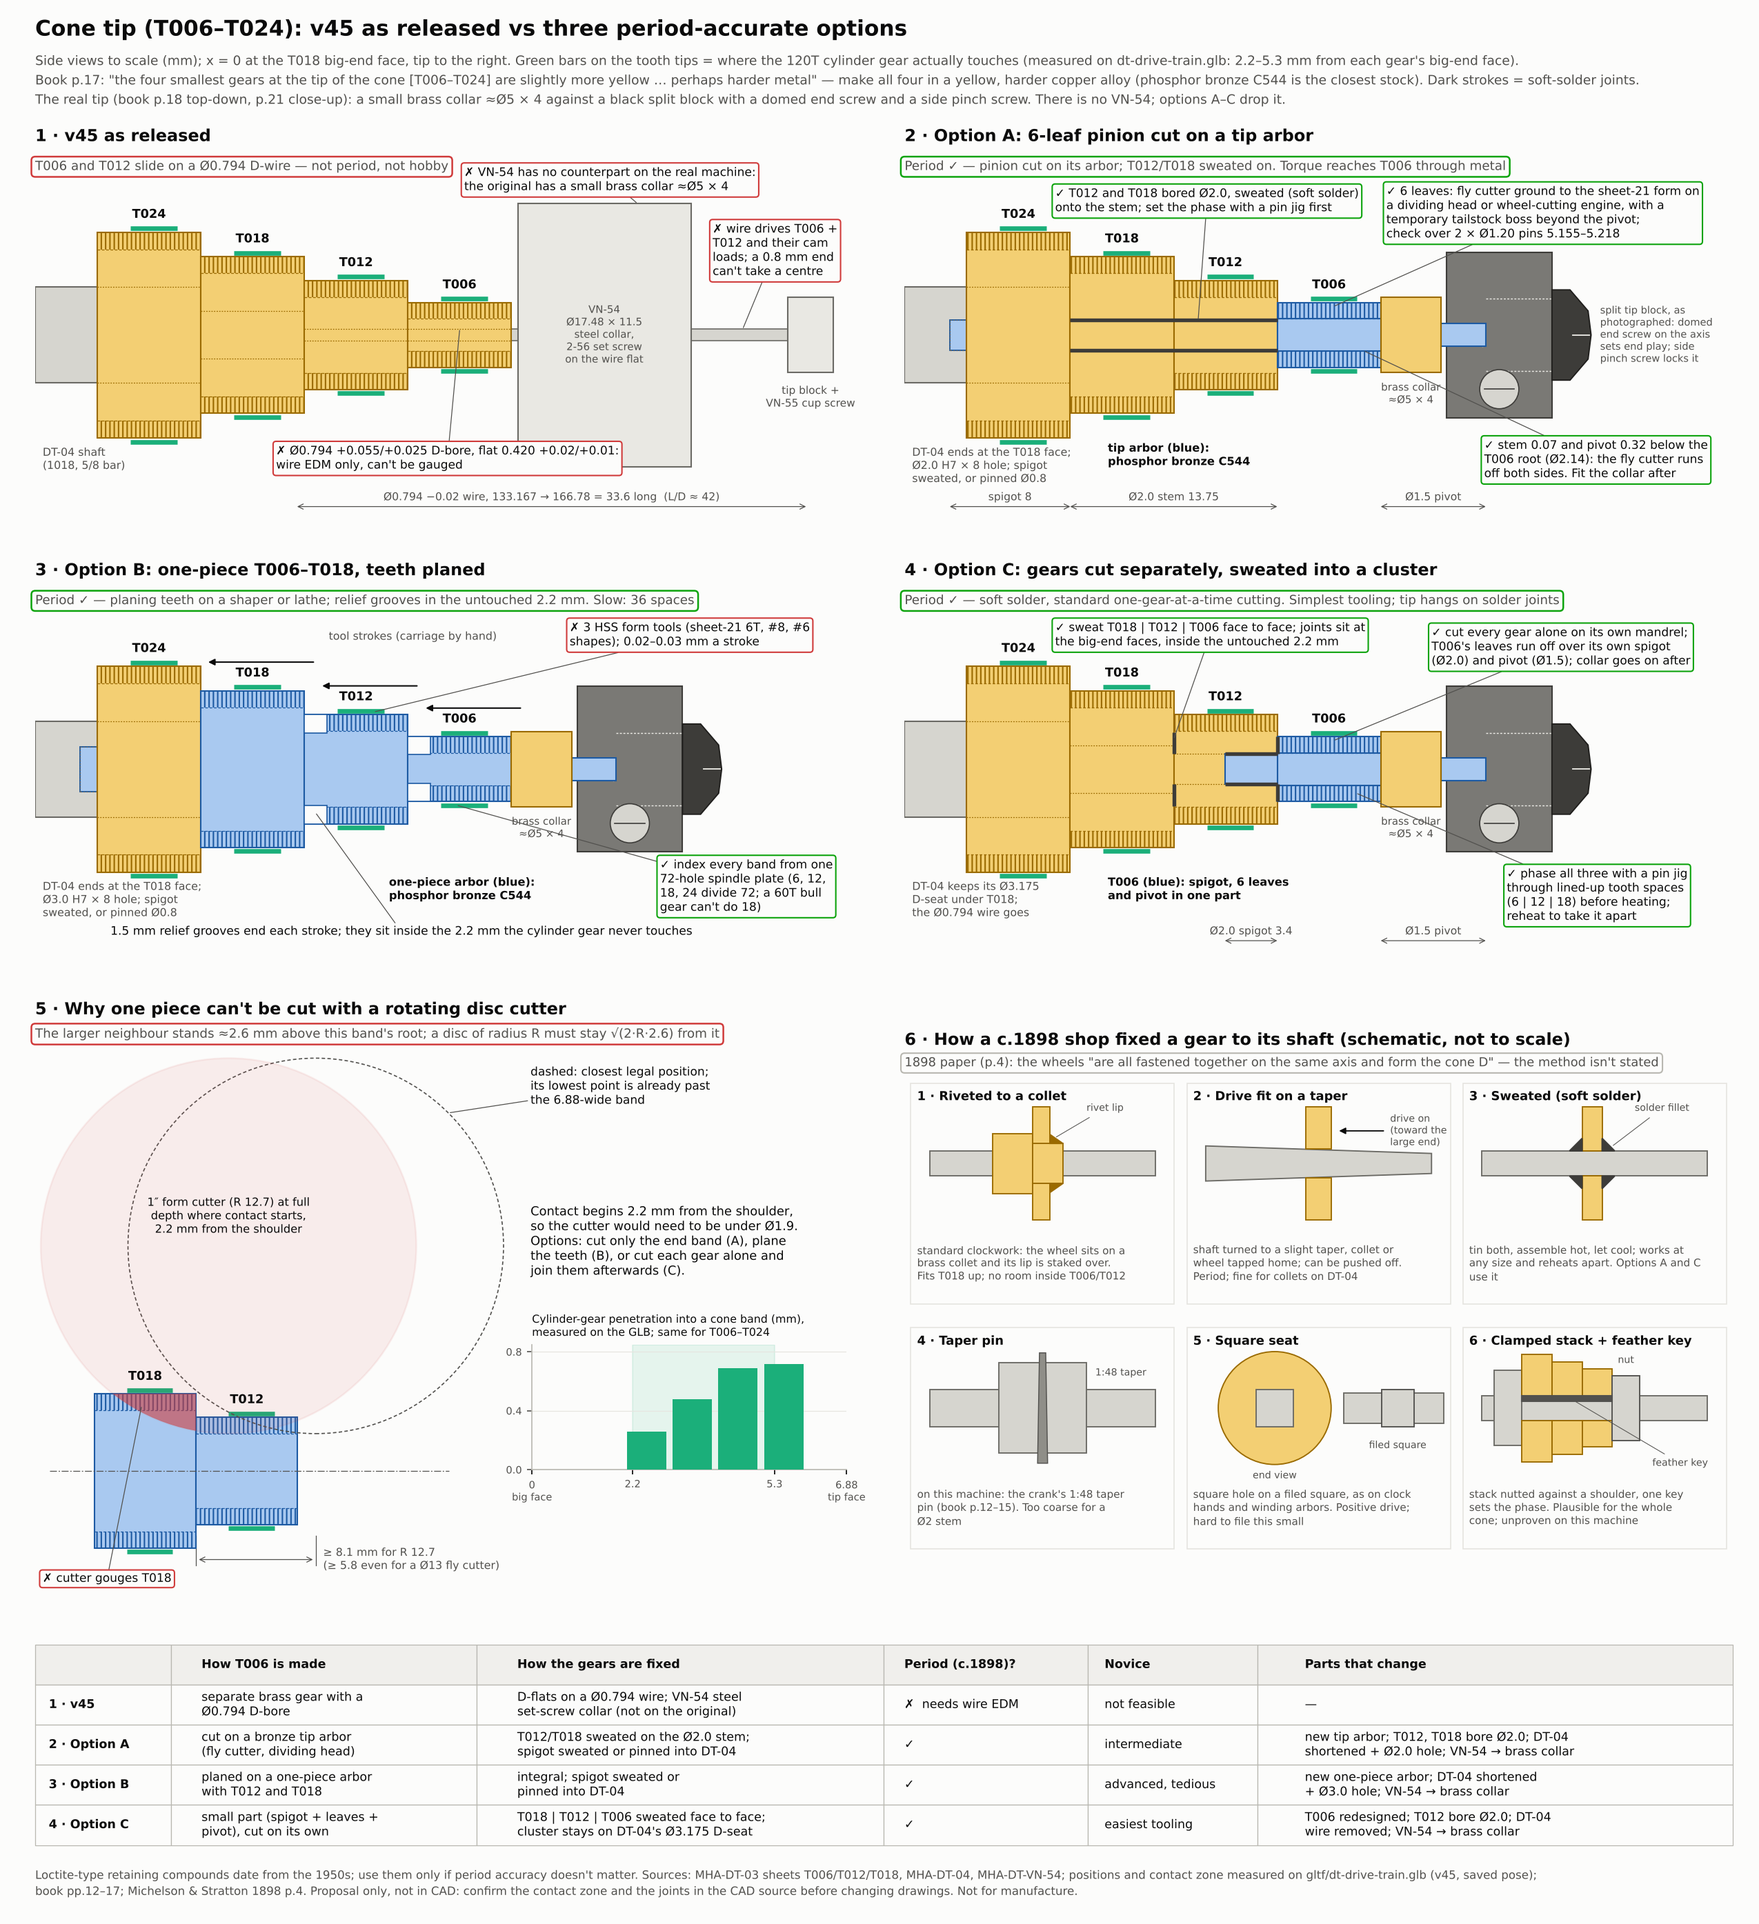
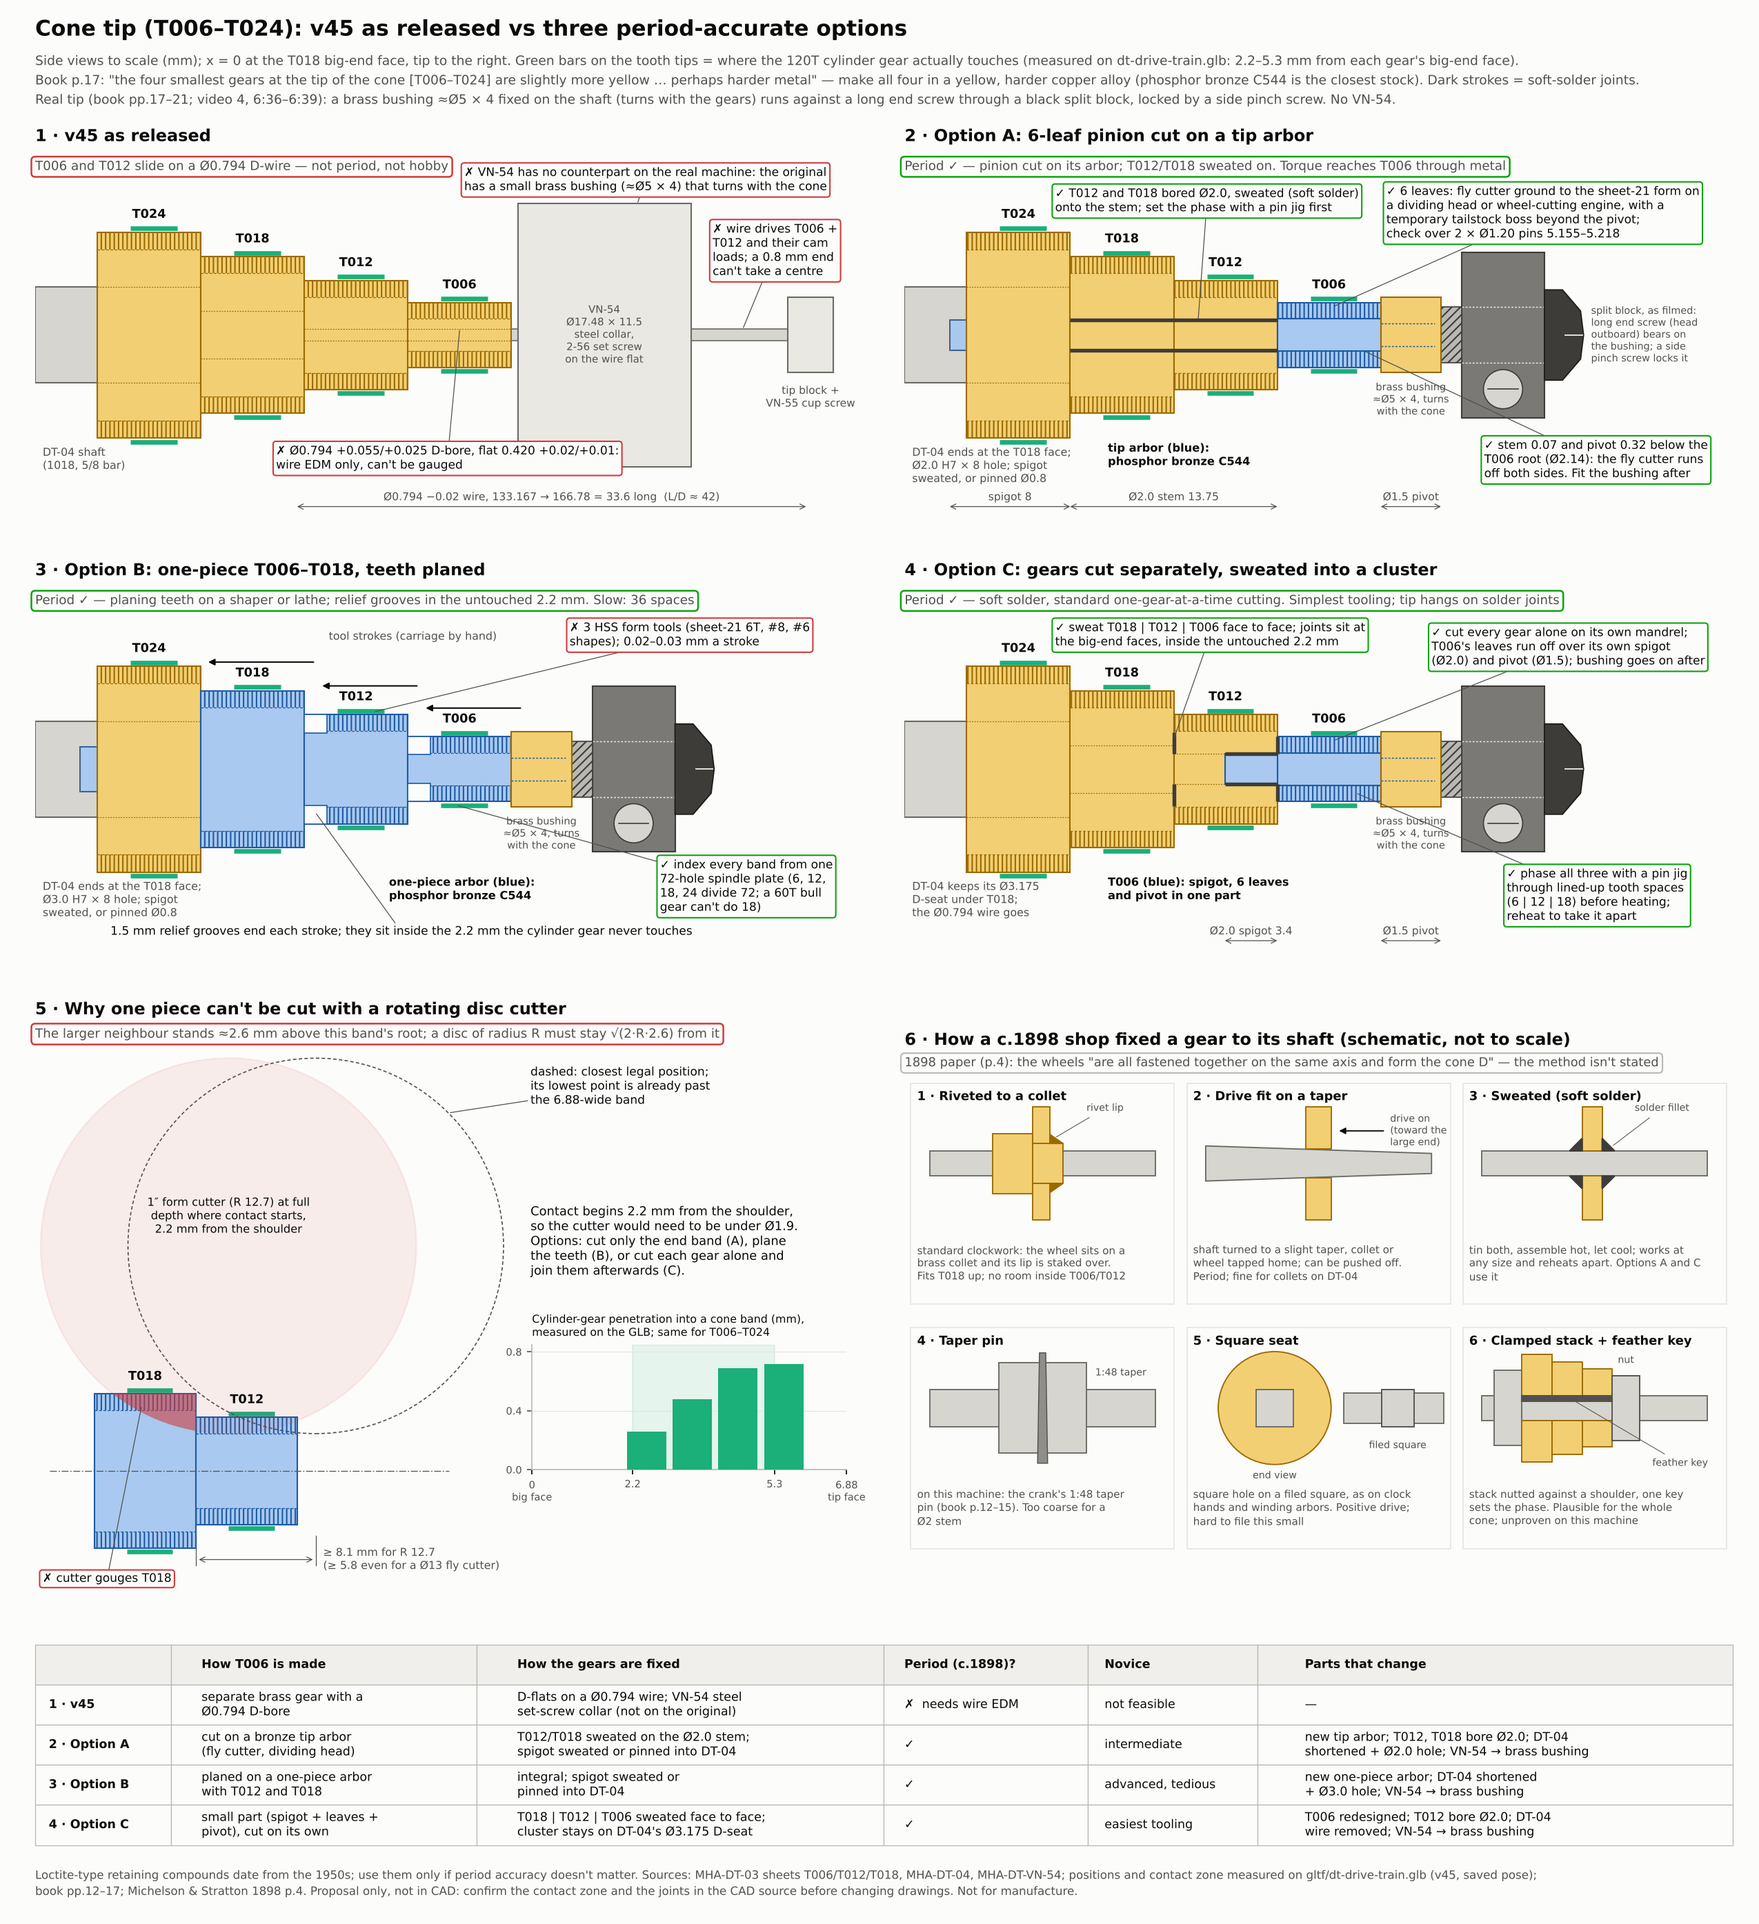
research: cone tip has a rotating brass bushing and a long end screw
engineerguy video 4 (6:36 vs 6:39, crank turning, camera locked off)
shows the tip from the side. Frame differencing puts the brass bushing
with the rotating 6-leaf pinion (mean change 18.7 vs 13-20), while the
exposed end-screw thread, black split block and side pinch screw stay
at the noise floor (~2-3). So the bushing is fixed on the shaft and is
the thrust face for a long end screw threaded through the split block
(domed head outboard), locked by the side pinch screw.

- Departures, per-drawing notes and recommendation 1 now use the
  bushing; VN-55 should become a long headed end screw.
- Section 7: the collar-vs-bush open question is resolved; options
  fit the bushing on the pivot after cutting.
- Sketch redrawn: rotating bushing, exposed end-screw thread, block
  with the screw head outboard.

Claude-Session: https://claude.ai/code/session_01BtxwQxpMCrb1hsP44NXY8R

diff --git a/research/3-detailed-design/drive-train-v45-review.md b/research/3-detailed-design/drive-train-v45-review.md
@@ -4,8 +4,9 @@
 > would receive it. Findings may already be fixed on `main`. Track the work on the
 > [Harmonic Analyzer project](https://github.com/users/pedropaulovc/projects/1).
 >
-> **Revised 2026-10-27.** The cone-tip findings are corrected (VN-54, tip-gear material), and §7
-> adds cone-tip options with a to-scale sketch.
+> **Revised 2026-10-27.** The cone-tip findings are corrected (VN-54, tip-gear material, and the
+> rotating brass bushing and end screw from video 4), and §7 adds cone-tip options with a
+> to-scale sketch.
 
 ## Scope and method
 
@@ -15,7 +16,9 @@
 - **Original-machine evidence.** Hammack, Kranz and Carpenter (2014), chapters Crank, Cone
   Gear Set, Cylinder Gear Set, Pinion Gear and Translational Gearing (`references` submodule).
   Only facts are cited here. No image or text from the book is reproduced, because it is
-  licensed for non-commercial use only.
+  licensed for non-commercial use only. The engineerguy video stills in
+  `references/engineerguy-youtube/stills/full/` are cited by path and not reproduced either.
+  The main one is video 4, "The details of setting up the Harmonic Analyzer", at 6:36 and 6:39.
 - **3D inspection.** meshprobe 1.4.0 on Blender 5.2.0 (software GL) against
   `dt-drive-train.glb`: component census and world bounds, top/side orthographic views,
   close-ups of the cone tip, the crank mesh and the alignment-pinion rig, and a side-by-side
@@ -36,8 +39,8 @@
    reduction, the 13° oblique cone, the tip pivot and lock, the 120T cylinder gears with 3 mm
    notches, and the alignment-pinion rig all match the book. The departures are in small-part
    detail, and the cone tip is the clearest one: `MHA-DT-VN-54`, a Ø17.48 steel set-screw
-   collar, has no counterpart on the original, which has a small brass collar against a split
-   tip block. There is also one known accuracy defect: a 1.5° cam phase error that `READOUT.md`
+   collar, has no counterpart on the original. The original has a small brass bushing that
+   turns with the cone and runs against a long end screw in a split tip block. There is also one known accuracy defect: a 1.5° cam phase error that `READOUT.md`
    documents itself.
 2. **Drawings: rich in shop knowledge, weak on drafting discipline.** The sheets have gear data
    blocks, vendor SKUs, a complete BOM and a feeler-gauge assembly procedure. But they cite
@@ -85,24 +88,35 @@
   - **Material.** The book says "the four smallest gears at the tip of the cone are slightly
     more yellow in appearance and seem to be made of a different, perhaps harder metal"
     (p.17). That covers T006–T024. The p.21 close-up shows verdigris on the 6-leaf pinion,
-    which points to a copper alloy, not steel **[I from photo]**.
+    which points to a copper alloy, not steel **[I from photo]**. In the video 4 side view
+    (6:36) the four smallest gears are visibly lighter than the bronze-brown rest of the cone
+    **[I from video]**.
   - **Construction.** The photos don't show whether the tip gears are integral with the shaft
     or separate gears.
   - **v45.** All four are drawn in plain "Brass".
 - **No counterpart for `MHA-DT-VN-54`.**
   - **Model:** a Ø17.48 × 11.5 steel collar from 3/4″ bar with a radial 2-56 set screw on
     the wire flat, set "0.45 FEELER OFF T006 THRUST FACE" **[V]**.
-  - **Original:** the book's top-down photo (p.18; bundled overlay
-    `comparisons/*/harmonic_analyzer--ch12-p002-img09*`) and the p.21 close-up show only a
-    small brass collar. It sits directly against T006 and the black tip block, and is about
-    Ø5 × 4 mm (scaled from the gear pitch, ±25 %) **[I from photos]**.
+  - **Original:** the sources show only a small brass bushing, about Ø5 × 4 mm (scaled from
+    the gear pitch, ±25 %), right against T006 **[I from photos]**. The sources are the book's
+    top-down photo (p.18; bundled overlay `comparisons/*/harmonic_analyzer--ch12-p002-img09*`),
+    the p.21 close-up and the video 4 side view.
+  - **The bushing turns with the cone.** Between the video 4 frames at 6:36 and 6:39 the crank
+    turns. The bushing changes as much as the rotating 6-leaf pinion beside it (mean pixel
+    change 18.7 against 13–20). The end-screw thread, black block and side screw stay at the
+    compression floor (about 2–3) **[I from video]**. The bushing is therefore fixed to the
+    cone shaft. It is a rotating thrust collar, not a bush in the block.
   - **Verdict:** VN-54 is roughly 3× too large in diameter and length, the wrong metal, and
     has no set screw on the original.
-- **Tip block hardware.** On the original, a domed, slotted, blackened end screw sits on the
-  cone axis in the split black block, and a bright slotted pinch screw on the side locks the
-  slit (book pp.17–18) **[I from photos]**.
-  - v45 uses a headless #10-32 cup-point set screw (`VN-55`) for the end screw and a #4-40
-    fillister (`VN-56`) for the pinch **[V]**.
+- **Tip block hardware.**
+  - **Original** (book pp.17–18, video 4 at 6:36) **[I from photos/video]**:
+    - A long end screw is threaded through the black split block. Its domed, slotted,
+      blackened head is outboard, and its threaded end sticks out toward the cone.
+    - The rotating brass bushing runs against that inner end.
+    - A bright slotted pinch screw on the side crosses the slit and locks the end screw's
+      thread.
+  - **v45:** a short headless #10-32 cup-point set screw (`VN-55`) for the end screw and a
+    #4-40 fillister (`VN-56`) for the pinch **[V]**.
   - In the aligned overlay, the model's pinch-screw head is on the side facing the cylinder
     bank. On the original it is on the outboard side **[I]**.
 - **Helical crank drive gear.** `dt-crank-drive-gear` is "HELIX AT PITCH DIA: 13.0 ±1 DEG RIGHT
@@ -115,7 +129,7 @@
   says the original chain is lost, so its form is a guess **[V]**.
 - **Appearance (GLB only).** The crank arm renders black, where the original is nickel-bright.
   The post renders turquoise, where the original is dark green. These are cosmetic. The tip
-  collar is not cosmetic; see the VN-54 item above.
+  collar (VN-54) is not cosmetic; see the VN-54 item above.
 
 ## 2. Drawing quality
 
@@ -287,14 +301,19 @@ Severity: **BLOCKER** (can't be made or will not work as drawn), **MAJOR**, **MI
 - `dt-cone-tip-block` (DT-21)
   - **MAJOR [V]** The cone-axis height "38.10" is untoleranced (±0.51), while the post holds
     "38.10 ±0.25 AXIS MATCHES MHA-DT-21". At T006 that is about half a tooth **[I]**.
+  - **MINOR [I from photos/video]** The original's end screw is a long, headed screw. It goes
+    through the block, with its head outboard and its thread exposed toward the cone. It is not
+    a short headless cup set screw (VN-55), and the side pinch screw is on the opposite side
+    from the model's.
 - `dt-cone-swing-platform` (DT-20)
   - **MINOR [V]** "REAM Ø6.35 +0.02/0.00 … RUNNING FIT" against a Ø0.250 -0.001 shoulder allows
     zero clearance.
   - **MINOR [V]** "SWINGS FREE, NO AXIAL SHAKE" has no end-play number.
   - Good: a clear stock call.
 - `dt-vn-cone-tip-collar` (VN-54)
-  - **MAJOR [I from photos]** It has no counterpart on the original (§1 Departures). The real
-    tip has a small brass collar, about Ø5 × 4, against the tip block.
+  - **MAJOR [I from photos/video]** It has no counterpart on the original (§1 Departures). The
+    real tip has a small brass bushing, about Ø5 × 4, fixed on the shaft. It turns with the
+    cone and runs against the end screw.
   - **MAJOR [V]** A made part ("REAM THRU", "3/4 STEEL BAR STOCK OK") carries a VN number.
   - **MAJOR [I]** A 2-56 set screw clamping a 0.8 mm half-round wire will bend or mark it.
 - Vendor sheets (VN-51, -52, -55, -56, -60, -61)
@@ -369,7 +388,8 @@ Severity: **BLOCKER** (can't be made or will not work as drawn), **MAJOR**, **MI
 
 1. **Rework the cone tip (§7).**
    - Drop the Ø0.794 mm journal, the T006/T012 D-bores and VN-54.
-   - Replace VN-54 with the original's small brass collar.
+   - Replace VN-54 with the original's small brass bushing. Fix it on the shaft so it turns
+     with the cone and bears on a long end screw.
    - Pick one of the three period-accurate options: an integral 6-leaf pinion on a tip arbor,
      a one-piece planed arbor, or gears cut separately and sweated into a cluster.
    - Make T006–T024 in a yellow, harder copper alloy (phosphor bronze C544).
@@ -406,15 +426,22 @@ of it is in CAD.
 
 ### What the original tip looks like
 
-- **Brass collar.** A small brass collar, about Ø5 × 4 mm, sits against the T006 face and the
-  tip block (book p.18 top-down, p.21 close-up) **[I from photos]**.
-- **Tip block.** It is black and split. A domed, slotted, blackened end screw sits on the axis,
-  and a bright slotted pinch screw on the side locks the slit (pp.17–18) **[I from photos]**.
+- **Brass bushing.** A small brass bushing, about Ø5 × 4 mm, sits right against the T006 face
+  (book p.18 top-down, p.21 close-up, video 4 side view).
+  - It is fixed on the shaft and turns with the cone. Between the video 4 frames at 6:36 and
+    6:39 it changes like the rotating pinion, while the screw and block don't **[I from
+    video]**.
+  - Its outer face is a thrust face.
+- **End screw and block.** A long end screw is threaded through the black split block.
+  - Its domed, slotted, blackened head is outboard; its threaded end sticks out toward the cone
+    and faces the bushing.
+  - A bright slotted pinch screw on the side crosses the slit and locks the thread.
+  - End play is set by turning the end screw against the bushing, then tightening the pinch
+    screw (book pp.17–18, video 4) **[I from photos/video]**.
 - **What we don't know.**
   - The 1898 paper says only that the wheels "are all fastened together on the same axis and
     form the cone D" (Michelson & Stratton, p.4). How they are fixed is not stated.
-  - Whether the brass collar is fixed to the shaft or is the end of a bush in the block can't
-    be told from the photos.
+  - Whether the shaft's pivot point enters a centre in the end screw is hidden by the bushing.
 
 ### Constraints any option must meet
 
@@ -433,8 +460,12 @@ of it is in CAD.
 
 ### Options
 
-All three are period-accurate (c.1898). All three delete VN-54 and the Ø0.794 wire, add the
-original's small brass collar, and keep the original split block, end screw and pinch screw.
+All three are period-accurate (c.1898). All three:
+- delete VN-54 and the Ø0.794 wire;
+- add the original's brass bushing, soft-soldered or driven onto the pivot after the teeth are
+  cut, with its outer face square and smooth;
+- use the original's tip hardware: a split block with a long end screw that bears on the
+  bushing, and a side pinch screw.
 
 - **A · 6-leaf pinion cut on a tip arbor.**
   - **Arbor.** Phosphor bronze, carrying the integral T006, a Ø2.0 stem and a Ø1.5 pivot. It
@@ -444,7 +475,7 @@ original's small brass collar, and keep the original split block, end screw and 
     temporary tailstock boss beyond the pivot.
   - **T012 and T018.** Bore both Ø2.0 and soft-solder them onto the stem, setting the phase
     with a pin jig first.
-  - **Collar.** Fit the brass collar after cutting.
+  - **Bushing.** Fit the brass bushing on the pivot after cutting.
   - **Drive.** T006's torque reaches it through metal.
 - **B · One-piece T006–T018 with planed teeth.**
   - **Method.** Plane the teeth (shaper, or the lathe used as one) with three HSS form tools.
@@ -478,10 +509,15 @@ original's small brass collar, and keep the original split block, end screw and 
 ### Open questions for the CAD change
 
 - Confirm the 2.2–5.3 mm contact zone against the CAD source, not only the saved GLB pose.
-- Decide whether the brass collar is a thrust collar on the shaft or a bush in the block. Set
-  the end-play scheme to match.
-- Choose A, B or C. Each touches MHA-DT-03 (T006/T012 at least), MHA-DT-04, VN-54 (deleted),
-  VN-55 and VN-56 (end and pinch screws).
+- Resolved: the brass bushing is a thrust collar on the shaft (video 4 frame diff). End play
+  is set by the long end screw bearing on it.
+- Still open: whether the pivot runs in a centre in the end screw's tip. The photos and video
+  can't show it.
+- Choose A, B or C. Each touches:
+  - MHA-DT-03 (T006/T012 at least) and MHA-DT-04;
+  - VN-54, which is deleted;
+  - VN-55, replaced by a long headed end screw through the block;
+  - VN-56, the pinch screw, which moves to the outboard side.
 
 ## Reproducing the renders
 
@@ -517,3 +553,18 @@ and cylinder axes through the 20 gear centroids (skew 13.05°). Each cylinder ge
 surface-sampled at 400 000 points, keeping the points that fall inside each cone band's OD
 within that band's axial span. The committed sketch contains no book imagery; it is drawn from
 the drawings and those measurements.
+
+The rotating-bushing finding compares `engineerguy-youtube/stills/full/v4_t00396.png` and
+`v4_t00399.png`. The camera is locked off and the crank turns between the two frames. Mean
+absolute grey-level difference was taken in small windows:
+
+| Window | Mean change |
+|---|---|
+| 6-leaf pinion | 13.3 |
+| brass bushing | 18.7 |
+| exposed end-screw thread | 6.5 (edge bleed; ~4 a few px further on) |
+| black block | 2.1 |
+| end-screw head | 2.9 |
+| bright side screw | 3.0 |
+
+The video stills are not committed.
